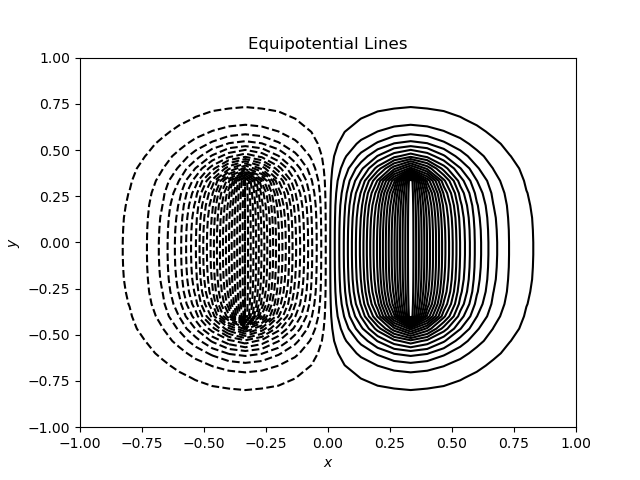
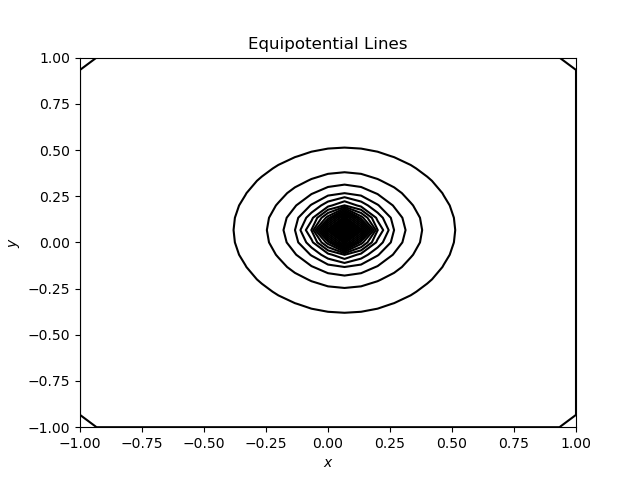
charge within a box problem solved

diff --git a/Campos Elétricos/potential_solver.py b/Campos Elétricos/potential_solver.py
@@ -1,6 +1,6 @@
 import numpy as np
 
-def update_V(V):
+def update_V(V, ρ):
     """
     Function that receives a potential V and aplies the Jacobi method to it
     and calculates the absolute difference between the new and old potentials.
@@ -12,11 +12,15 @@ def update_V(V):
         
     # Total (cumulative) change in V during this update loop
     ΔV = 0
+
     # Dimension of the potential
     dim = len(V.shape)
 
     # Number of sites along a direction
     N = V.shape[0]
+
+    # Step size
+    dx = 2.0 / (N - 1)
     
     # Loop through all values (i,j) except the boundary, where the values are fixed
     if dim == 2:
@@ -25,12 +29,21 @@ def update_V(V):
             for j in range(1, N-1):
                 if (abs(V[i, j]) != 1):
                     V_new[i, j] = (V[i+1, j] + V[i-1, j] +
-                                V[i, j+1] + V[i, j-1]) / 4
+                                V[i, j+1] + V[i, j-1] + ρ[i, j]*(dx**2)) / 4
                     ΔV += abs(V_new[i, j] - V[i, j])
-
+    elif dim == 3:
+        V_new = np.copy(V)
+        for i in range(1, N-1):
+            for j in range(1, N-1):
+                for k in range(1, N-1):
+                    V_new[i, j, k] = (V[i+1, j, k] + V[i-1, j, k] +
+                                V[i, j+1, k] + V[i, j-1, k] +
+                                V[i, j, k+1] + V[i, j, k-1] + ρ[i, j, k]*(dx**2)) / 6
+                    ΔV += abs(V_new[i, j, k] - V[i, j, k])
     return V_new, ΔV
 
-def laplace_calculate(V):
+
+def laplace_calculate(V, ρ):
     """
     Function that aplies the relaxation method to a initial potential V
     until the new potential is within the tolerance range.
@@ -45,12 +58,12 @@ def laplace_calculate(V):
 
     # Perform 10 iterations initially
     for _ in range(10):
-        V_new, ΔV = update_V(V)
-        V, ΔV = update_V(V_new)
+        V_new, ΔV = update_V(V, ρ)
+        V, ΔV = update_V(V_new, ρ)
 
     # Continue iterating until ΔV is less than ε
     while ΔV < ε:
-        V_new, ΔV = update_V(V)
-        V, ΔV = update_V(V_new)
+        V_new, ΔV = update_V(V, ρ)
+        V, ΔV = update_V(V_new, ρ)
 
     return V

diff --git a/Campos Elétricos/potential_initializer.py b/Campos Elétricos/potential_initializer.py
@@ -11,6 +11,7 @@ def initialize_V_box(V1, V2, N):
     """
     # Create an initial guess for the potential (N x N grid)
     V = np.zeros((N, N))
+    ρ = np.zeros((N, N))
 
     # Boundary conditions:
     # For the sides with potentials
@@ -30,7 +31,7 @@ def initialize_V_box(V1, V2, N):
             V[0, i] = V[0, i-1] - dV
             V[N-1, i] = V[N-1, i-1] - dV
 
-    return V
+    return V, ρ
 
 def initialize_V_capacitor(V1, V2, N):
     """
@@ -42,6 +43,7 @@ def initialize_V_capacitor(V1, V2, N):
     """
     # Create an initial guess for the potential (N x N grid)
     V = np.zeros((N, N))
+    ρ = np.zeros((N, N))
 
     plate_begin = int(3*(N-1)/10)
     plate_end = int(7*(N-1)/10)
@@ -51,4 +53,20 @@ def initialize_V_capacitor(V1, V2, N):
     V[plate_begin:plate_end, first_third] = V1
     V[plate_begin:plate_end, second_third] = V2
 
-    return V
+    return V, ρ
+
+def initialize_V_box_charge(N):
+    """
+    Initialize an electric potential of a capacitor with the plates having potentials V1 and V2.
+    The potential grid has dimensions N x N.
+
+    Returns:
+    - `V`: Array with the proper boundary for the specified problem
+    """
+    # Create an initial guess for the potential (N x N x N grid)
+    V = np.zeros((N, N, N))
+    ρ = np.zeros((N, N, N))
+
+    zero = int((N-1)/2) + 1
+    ρ[zero, zero, zero] = 1
+    return V, ρ

diff --git a/Campos Elétricos/main.py b/Campos Elétricos/main.py
@@ -10,12 +10,33 @@ Lx = 2.0
 Ly = 2.0
 
 # Initialize the potential box
-V = PotentialInitializer.initialize_V_capacitor(V1, V2, N)
+V, ρ = PotentialInitializer.initialize_V_box_charge(N)
 
-# Solve using Jacobi method
-V_final = PotentialSolver.laplace_calculate(V)
+dim = len(V.shape)
 
-# Plot results
-PotentialPlots.equipotential_lines(V_final, Lx, Ly)
-PotentialPlots.potential_surface(V_final, Lx, Ly)
-PotentialPlots.electric_field(V_final, Lx, Ly)
+if dim == 2:
+    # Solve using Jacobi method
+    V_final = PotentialSolver.laplace_calculate(V, ρ)
+
+    # Plot results
+    PotentialPlots.equipotential_lines(V_final, Lx, Ly)
+    PotentialPlots.potential_surface(V_final, Lx, Ly)
+    PotentialPlots.electric_field(V_final, Lx, Ly)
+elif dim ==3:
+    for _ in range(100):
+        V_new, ΔV = PotentialSolver.update_V(V, ρ)
+        V, ΔV = PotentialSolver.update_V(V_new, ρ)
+    V_final = V
+
+    z0 = int((N-1)/2) + 1
+    V_xy = V_final[:, :, z0]
+
+    # Plot results
+    PotentialPlots.equipotential_lines(V_xy, Lx, Ly)
+    PotentialPlots.potential_surface(V_xy, Lx, Ly)
+    PotentialPlots.electric_field(V_xy, Lx, Ly)
+
+
+        
+
+    
